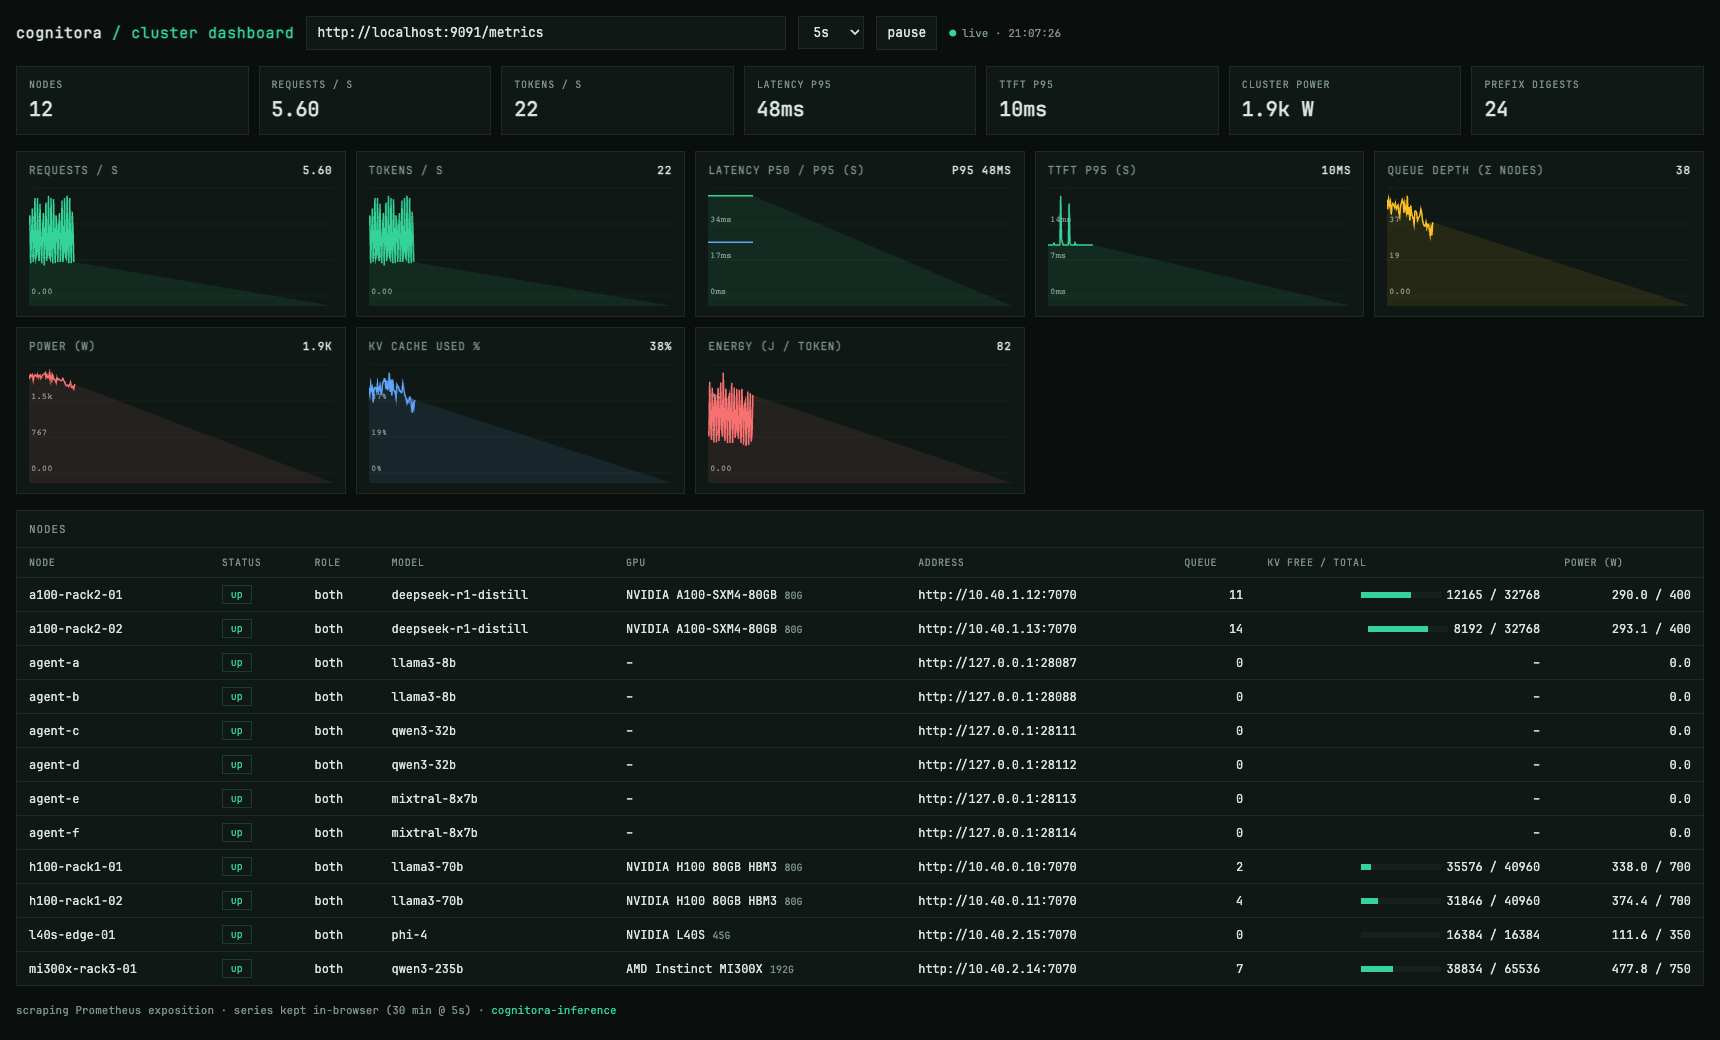
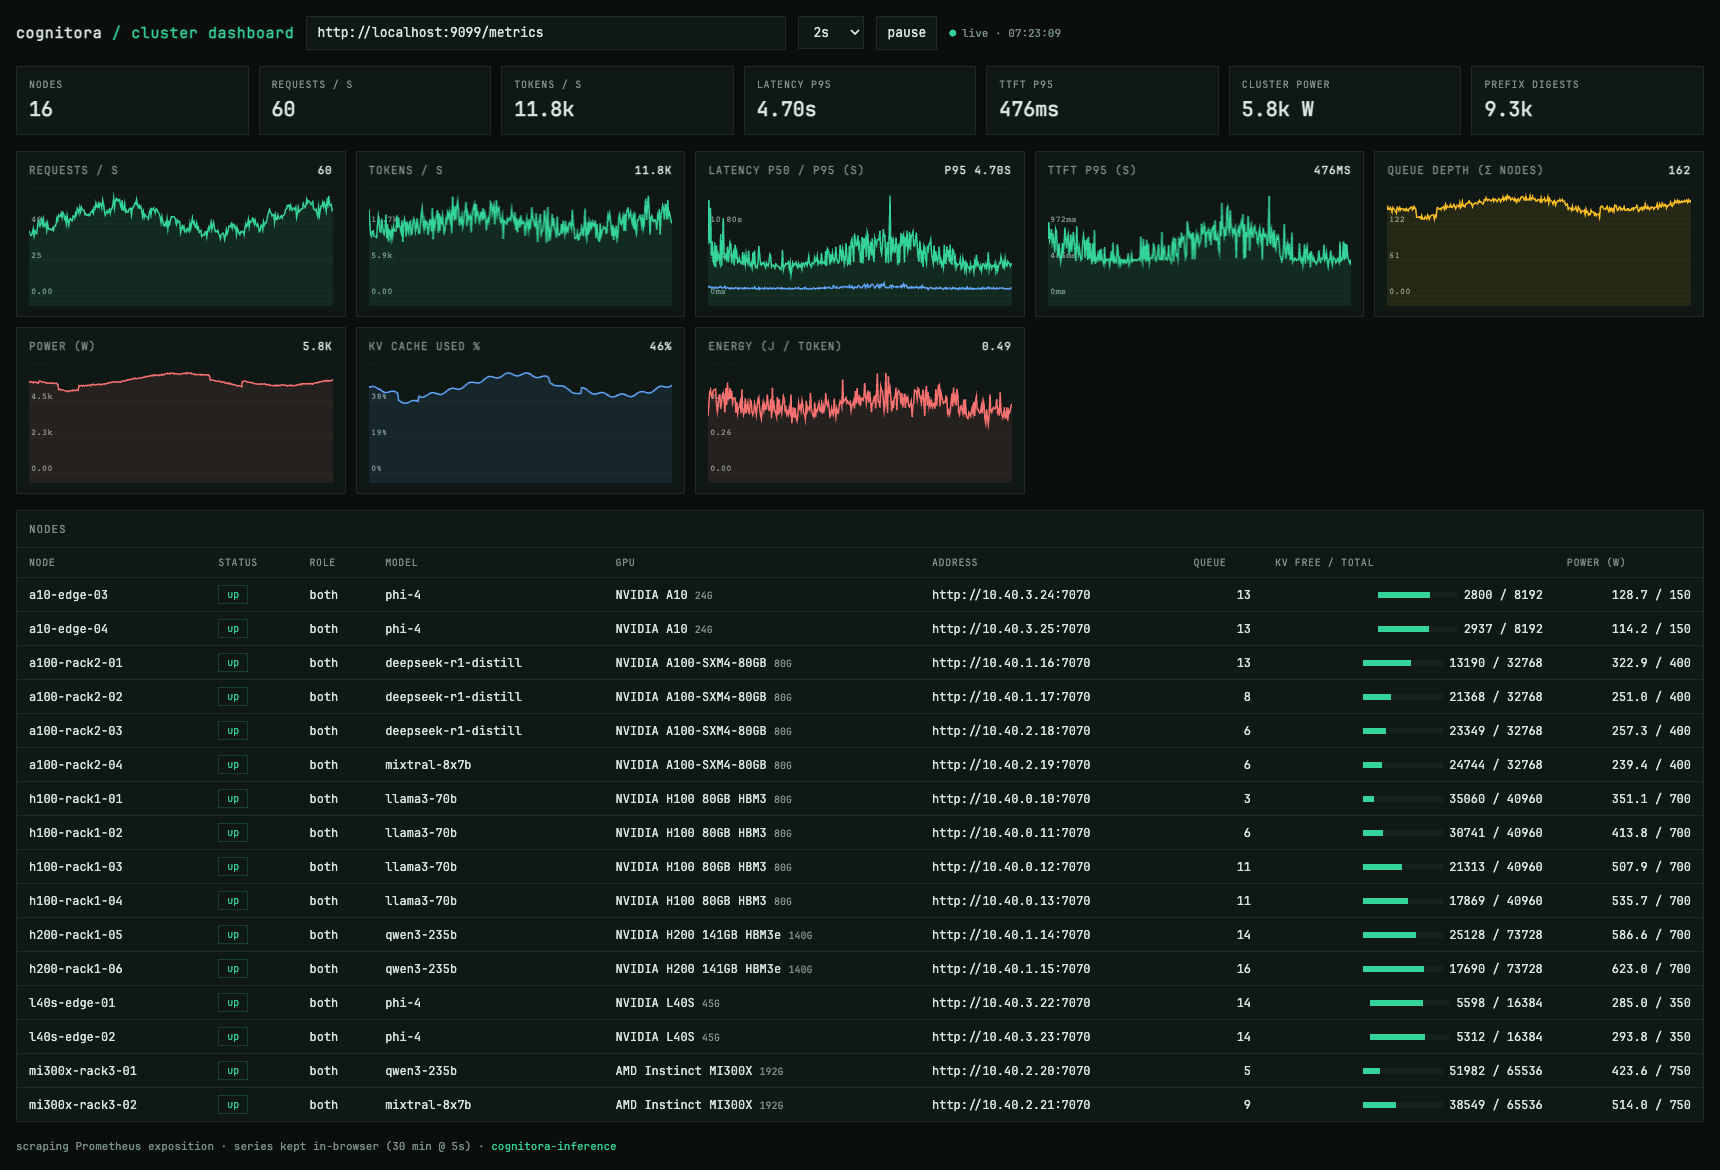
docs: refresh dashboard screenshot (16-node mock fleet, fully populated charts) + ?interval param

diff --git a/dashboard/index.html b/dashboard/index.html
@@ -138,7 +138,11 @@ endpointEl.value =
   new URLSearchParams(location.search).get("endpoint") ||
   localStorage.getItem("cgn.endpoint") ||
   "http://localhost:9091/metrics";
-let pollMs = Number(localStorage.getItem("cgn.interval") || 5000);
+let pollMs = Number(
+  new URLSearchParams(location.search).get("interval") ||
+  localStorage.getItem("cgn.interval") ||
+  5000
+);
 $("interval").value = String(pollMs);
 let paused = false;
 

diff --git a/README.md b/README.md
@@ -77,10 +77,10 @@ supports Llama-family GGUF models with sequential request serving; only
 
 <p align="center">
   <a href="dashboard/README.md">
-    <img src="dashboard/screenshot.png" alt="Cognitora cluster dashboard monitoring a 12-node mixed fleet (H100, A100, MI300X, L40S): live requests/s, tokens/s, latency and TTFT percentiles, queue depth, fleet power, KV cache utilisation, and energy per token." width="90%" />
+    <img src="dashboard/screenshot.png" alt="Cognitora cluster dashboard monitoring a 16-node mixed fleet (H100, H200, A100, MI300X, L40S, A10): live requests/s, tokens/s, latency and TTFT percentiles, queue depth, fleet power, KV cache utilisation, and energy per token." width="90%" />
   </a>
   <br />
-  <sub>The <a href="dashboard/README.md">cluster dashboard</a> watching a 12-node mixed fleet — single static HTML file, fed straight from the Prometheus <code>/metrics</code> endpoints.</sub>
+  <sub>The <a href="dashboard/README.md">cluster dashboard</a> watching a 16-node mixed fleet — single static HTML file, fed straight from the Prometheus <code>/metrics</code> endpoints.</sub>
 </p>
 
 <p align="center">

diff --git a/dashboard/README.md b/dashboard/README.md
@@ -5,7 +5,7 @@ inference cluster: live request/token throughput, latency and TTFT
 percentiles, per-node status, KV-cache utilization, queue depth, power
 draw, and estimated energy per token.
 
-![Cognitora cluster dashboard monitoring a 12-node mixed fleet (H100, A100, MI300X, L40S) with live throughput, latency, TTFT, queue, power, KV, and energy-per-token charts](screenshot.png)
+![Cognitora cluster dashboard monitoring a 16-node mixed fleet (H100, H200, A100, MI300X, L40S, A10) with live throughput, latency, TTFT, queue, power, KV, and energy-per-token charts](screenshot.png)
 
 ## How it works
 
